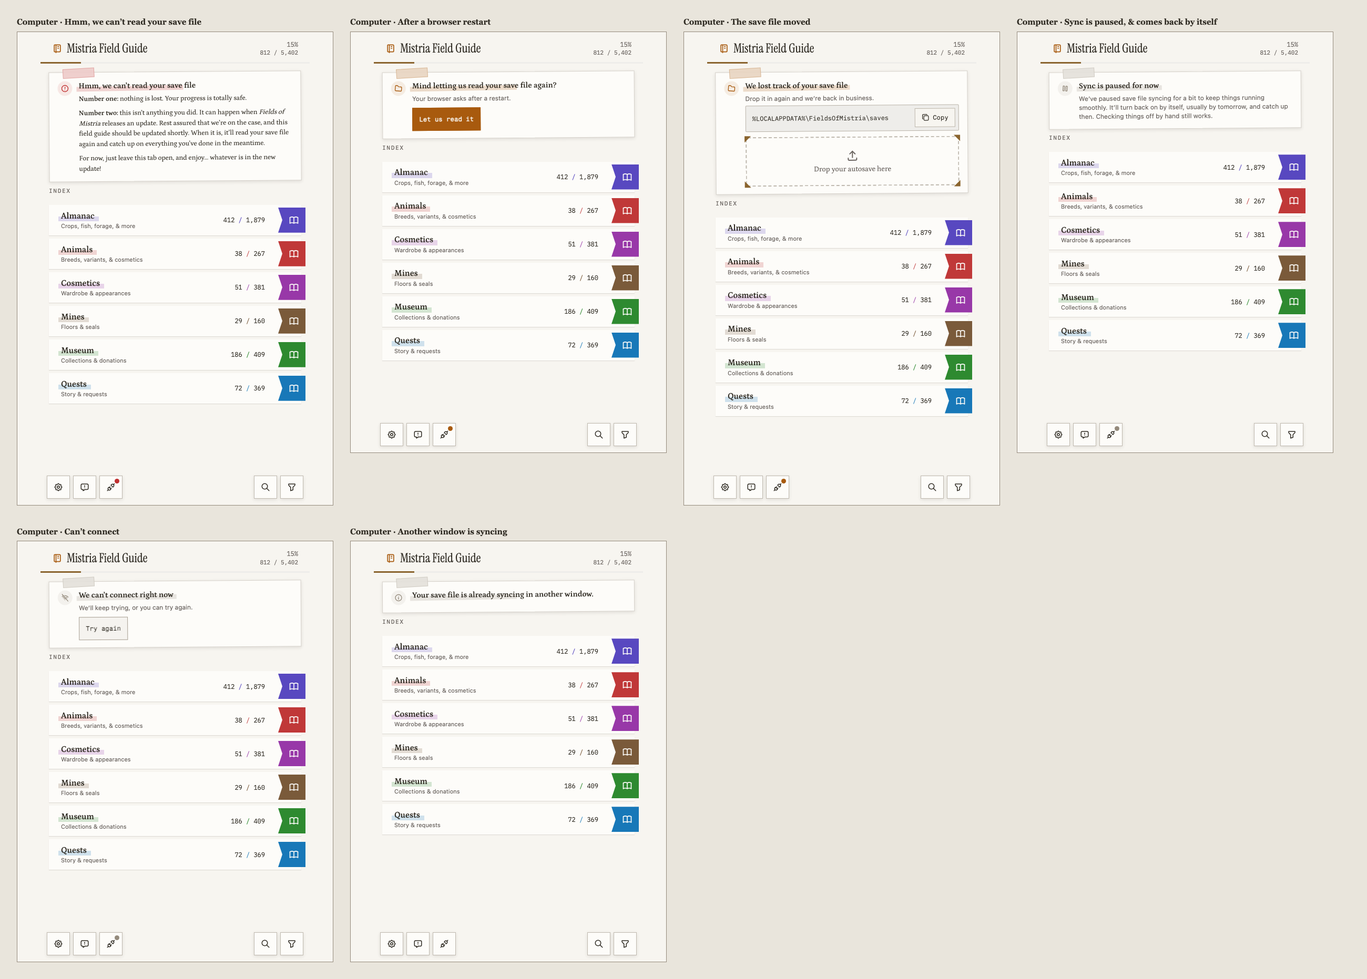
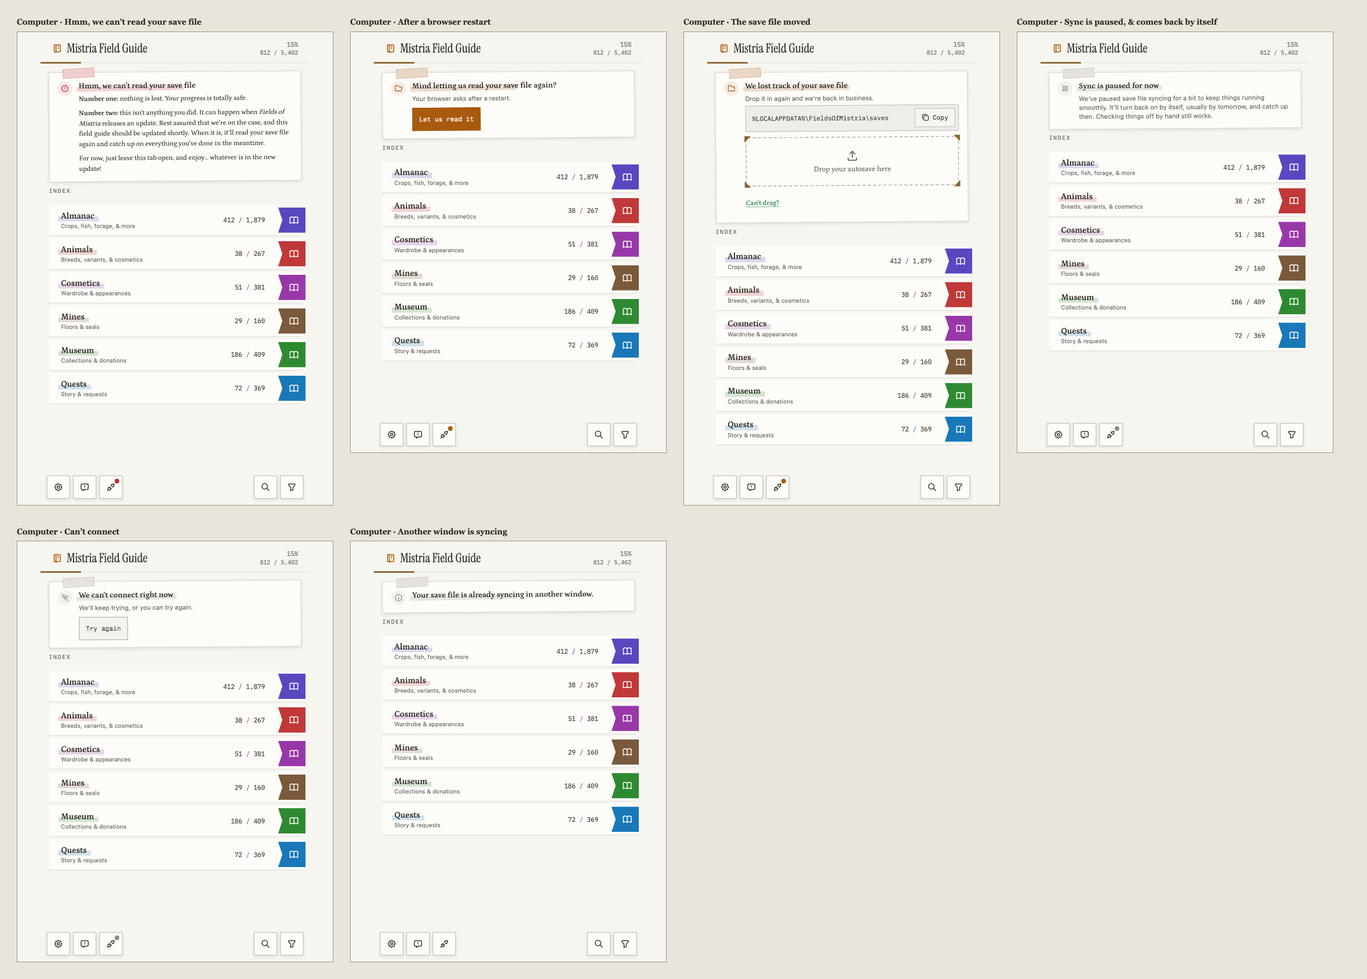
Address design review round two on sync setup
Resolve the ten round-two findings on PR #275 with label changes, reused
components, & one upload rule, and republish the canvas & sheets.

Decisions:
- Once a code exists, setup finishes with "Go to my field guide", since the
  computer can't tell when a phone scans; "No thanks" is only for a covered
  code.
- The stopped-sharing notice is neutral and offers "Stop syncing", since a
  retired code may have no replacement.
- Where the save file isn't watched, Data's sync card holds the ongoing drop
  box, staying in the lane & skipping the farm question.
- Only the drop box is ever disabled; halves are marked by a rule, not
  dimmed.
- Data's reset in a syncing lane stays in the lane & the save file refills
  it (maintainer's choice).
- The courier re-uploads when the mailbox is empty, whatever the hash.
- "I'll use the app" is the iPhone question's primary choice.

Changed region(s): [[0.6542, 0.2179, 0.7165, 0.467], [0.5296, 0.1868, 0.5919, 0.467]]

diff --git a/docs/sync-setup.md b/docs/sync-setup.md
@@ -129,12 +129,15 @@ at the bottom.
 
 1. **Find your save file.** The step admits it’s the weirdest part & promises smooth sailing after.
    It has two halves, copying the folder & dragging the file in, both always visible but only one
-   active at a time: the second is dimmed until the folder is copied, & the first dims once it is,
-   so the next step is always obvious at a glance.
+   active at a time, marked by an accent rule beside it; the other half keeps a hairline rule.
+   Nothing is dimmed or disabled except the drop box itself before the copy, so help, the platform
+   switch, & the instructions stay readable & usable, & the next step is still obvious at a glance.
    - **Copy the folder.** The path (Windows by default; “On Linux, Steam Deck, or a Mac?” shows the
-     others) with a Copy button. The drop box below looks inactive until the path is copied, by the
-     button or by a manual copy (a `copy` event whose selection is inside the path). The gate is
-     only visual: a save file dropped anyway still works, since it proves the player found it.
+     others) with a Copy button. The drop box below looks inactive until the path is copied (a
+     hairline border & muted icon, its label still at full contrast, & `aria-disabled` on the box
+     alone), by the button or by a manual copy (a `copy` event whose selection is inside the path).
+     The gate is only visual: a save file dropped anyway still works, since it proves the player
+     found it.
    - **Open it.** “Now open File Explorer and paste that into the address bar at the top.” It should
      show files like `game-[numbers]-autosave.sav`.
    - **Drag in the autosave.** Drag only where the save file is watched, since Windows refuses the
@@ -153,20 +156,29 @@ at the bottom.
    own variants, never filler text. “Yep!” applies the save file here.
 3. **Wanna track this on your phone?** The default next step. The code area holds everything about
    the code: the covered code with “Show code”, the stream note, & “Copy link” for a computer with
-   no camera. “No thanks, I’ll track here” sits in the step’s footer & finishes setup. Nothing is
+   no camera. The step’s footer holds the way on: “No thanks, I’ll track here” while the code is
+   covered, & once a code exists, `sync_done_home` (primary) with `sync_done_watched` beside it,
+   since the computer can’t tell when a phone scans. Either way setup finishes there. Nothing is
    shared until the first “Show code” or “Copy link”, which creates the code & reveals it only once
    that works; meanwhile the code area itself says `sync_making_code`, so the card doesn’t change
    height. If sync is paused, the code area says so & the footer’s only button becomes
    `sync_phone_later`, since setting up later is all the player can do. “No thanks” & a wrong file
    create nothing.
 
-- **Success says to keep the tab open:** “While this tab’s open, we’ll sync your save file every
+- **Finishing says to keep the tab open:** “While this tab’s open, we’ll sync your save file every
   time you sleep.” A browser that can’t watch files says to drop it in again after playing instead.
-  Its one button, `sync_done_home`, goes to the field guide, so there’s always a clear next step.
+  After “No thanks”, the done screen says so, with step iii folded to `sync_share_skipped`; its one
+  button, `sync_done_home`, goes to the field guide, so there’s always a clear next step.
 - **The Chrome tip.** In a browser that can’t watch a file & isn’t Chrome or Edge, the sync page
   opens with a dismissible tag dialog, “Let Chrome do this for you”, with “Copy this page’s link” &
-  `sync_tip_chrome_dismiss`; dismissing it leaves the drop-it-in-again steps.
+  `sync_tip_chrome_dismiss`; dismissing it leaves the normal setup steps, help included. The shorter
+  drop-it-in-again copy (`sync_find_open_redrop`, `sync_done_redrop`) appears only after the first
+  save file is read.
 - **Showing the code again** is one tap from Data or the status button.
+- **Dropping it in again.** Where the save file isn’t watched (another browser, or a copy chosen
+  through “Can’t drag?”), Data’s sync card holds the drop box for each new save file, with “Can’t
+  drag?” too, & the status button’s panel links there (`sync_redrop_label`). A drop stays in the
+  lane & skips the farm question unless the farm changed, which switches with a backup as usual.
 
 ### Save folders
 
@@ -197,7 +209,8 @@ watched, but it’s a handy way to grab a save file for development.
 
 - **iPhone & iPad browsers** get one question first, as a tag dialog: sync here, or in the home
   screen app, since Safari can clear a site’s data after a week away & the app keeps it. “I’ll use
-  the app” explains Share › “Add to Home Screen”, then opening the app & scanning there.
+  the app” is the primary button, since the dialog argues for it, & explains Share › “Add to Home
+  Screen”, then opening the app, tapping “Sync from my farm automagically”, & scanning there.
 - **A device already syncing** from another code asks `sync_switch_title`, offering “Make a backup”
   like the other dialogs, since a different farm replaces the one farm-switch backup; the next save
   file applies with the usual rules.
@@ -212,18 +225,18 @@ file comes from, when the last one came, & its in-game date (`sync_panel_*`), wi
 the gaming computer & a reminder to keep the tab open there. It speaks up with a dot & a short slip
 only when something is late or wrong. Its accessible name is “Save file sync: {status}”.
 
-| Stage            | The gaming computer                             | Another device                                                    |
-| ---------------- | ----------------------------------------------- | ----------------------------------------------------------------- |
-| Playing          | Syncs each time you sleep, while the tab’s open | Updates a moment later                                            |
-| Away for a while | Nothing                                         | A slip after an unusually long gap                                |
-| Browser restart  | Asks to read the save file again (one click)    | Nothing                                                           |
-| Game update      | Can’t read the save file: the notice below      | If it gets a save it can’t read either, the short notice below    |
-| App update       | Reloads itself at a safe moment                 | Same; `sync_update_computer` or `sync_update_here`                |
-| New farm         | Drop the new save file in                       | Switches to the new farm & backs up the old one                   |
-| New phone        | Show the code again                             | The new phone scans it; the old one keeps syncing until it stops  |
-| Non-Chrome       | Drop the save file in again after each session  | Updates whenever it’s dropped in                                  |
-| New code         | “Make a new code” in Data                       | “Your computer stopped sharing this save file”; scan the new code |
-| Paused           | `sync_paused_*`, hairline; lifts by itself      | Nothing new arrives; the gap slip if it lasts                     |
+| Stage            | The gaming computer                                                 | Another device                                                       |
+| ---------------- | ------------------------------------------------------------------- | -------------------------------------------------------------------- |
+| Playing          | Syncs each time you sleep, while the tab’s open                     | Updates a moment later                                               |
+| Away for a while | Nothing                                                             | A slip after an unusually long gap                                   |
+| Browser restart  | Asks to read the save file again (one click)                        | Nothing                                                              |
+| Game update      | Can’t read the save file: the notice below                          | If it gets a save it can’t read either, the short notice below       |
+| App update       | Reloads itself at a safe moment                                     | Same; `sync_update_computer` or `sync_update_here`                   |
+| New farm         | Drop the new save file in                                           | Switches to the new farm & backs up the old one                      |
+| New phone        | Show the code again                                                 | The new phone scans it; the old one keeps syncing until it stops     |
+| Non-Chrome       | Drop the save file in again after each session, in Data’s sync card | Updates whenever it’s dropped in                                     |
+| New code         | “Make a new code” in Data                                           | `sync_retired_*`: scan the new code if there is one, or stop syncing |
+| Paused           | `sync_paused_*`, hairline; lifts by itself                          | Nothing new arrives; the gap slip if it lasts                        |
 
 Check-offs made by hand on a phone stay on that phone, so a new phone starts with only what’s in the
 save file. A player who wants them moves them with backup & restore, which stays in the lane.
@@ -235,13 +248,14 @@ hand, keeping all its progress. Each of the card’s actions carries a line sayi
 (`sync_show_code_sub`, `sync_new_code_sub`, `sync_stop_sub`, `sync_scan_other_sub`), so “Make a new
 code” explains itself before anyone opens its dialog.
 
-- **On the gaming computer,** leaving the lane by “Stop syncing” (or Data’s reset, which stops
-  syncing too) also retires the code once the leaving write lands, so other devices say the computer
-  stopped sharing & keep what they have until they stop too. A retire that can’t reach the relay
-  keeps retrying.
+- **On the gaming computer,** leaving the lane by “Stop syncing” also retires the code once the
+  leaving write lands, so other devices say the computer stopped sharing & keep what they have until
+  they stop too. A retire that can’t reach the relay keeps retrying.
 - **Stopping removes only the sync state:** the receipt, the lane, & the key. **Starting fresh**
   erases progress & history too, but keeps the farm-switch backup, since no export carries it.
-  **Data’s reset** in a syncing lane erases progress & stops syncing, back to tracking by hand.
+  **Data’s reset** in a syncing lane erases progress & history but stays in the lane: the save file
+  fills it back in, at once on the computer & with the next save file elsewhere. The reset dialog
+  adds `sync_reset_note` in a syncing lane.
 - **“Make a new code”** stays in the lane, for when the old one ended up on stream. It makes & shows
   the new code first, then retires the old one; if it can’t make one, the old code keeps working
   (`sync_new_code_failed`).
@@ -254,7 +268,8 @@ code” explains itself before anyone opens its dialog.
   nothing is lost, it isn’t your fault, we’re on it, & the next read applies everything since, so
   keep the tab open. Another device shows the short version only when it gets a save file it can’t
   read either; otherwise it just sees no new saves.
-- **The save file moved or access lapsed:** an amber field note with the drop box & folder again.
+- **The save file moved or access lapsed:** an amber field note with the folder, the drop box, &
+  “Can’t drag?”, the same file input as setup.
 - **Sync can’t be reached:** `sync_unreachable_*` with “Try again”, on either side. Uploads retry by
   themselves.
 - **Sync is paused** (the kill switch): a hairline note on the gaming computer saying it turns back
@@ -362,6 +377,7 @@ parentheses after a button is its subtitle. Line breaks in a body are paragraphs
 | `sync_find_linux_hint`     | Not there? Look in your Steam library’s steamapps/compatdata/2142790 folder.                                                                                                                |
 | `sync_find_open`           | Now open File Explorer and paste that into the address bar at the top. It should take you to a folder with files like `game-[numbers]-autosave.sav`. Drag that autosave file into this box: |
 | `sync_find_open_redrop`    | Open it in File Explorer and drag your newest autosave in.                                                                                                                                  |
+| `sync_redrop_label`        | Drop in your latest save file                                                                                                                                                               |
 | `sync_find_drop`           | Drop your autosave here                                                                                                                                                                     |
 | `sync_find_drop_locked`    | Copy the folder first, and this box will wake up.                                                                                                                                           |
 | `sync_find_cant_drag`      | Can’t drag?                                                                                                                                                                                 |
@@ -388,7 +404,7 @@ parentheses after a button is its subtitle. Line breaks in a body are paragraphs
 | `sync_done_watched`        | While this tab’s open, we’ll sync your save file every time you sleep. So leave it open while you play!                                                                                     |
 | `sync_done_redrop`         | Whenever you’re done playing, drop your save file in again and we’ll sync it.                                                                                                               |
 | `sync_done_home`           | Go to my field guide                                                                                                                                                                        |
-| `sync_done_code_summary`   | Your code’s ready any time in Data                                                                                                                                                          |
+| `sync_share_skipped`       | Skipped. Show a code any time from Data.                                                                                                                                                    |
 | `sync_tip_chrome`          | Let Chrome do this for you                                                                                                                                                                  |
 | `sync_tip_chrome_body`     | In Chrome or Edge, we can sync your save file every time you sleep, no dropping it in again.                                                                                                |
 | `sync_tip_chrome_after`    | Copy this page’s link, then paste it into Chrome or Edge.                                                                                                                                   |
@@ -415,7 +431,7 @@ parentheses after a button is its subtitle. Line breaks in a body are paragraphs
 | `sync_ios_body`         | Safari can clear a site’s data if you don’t visit for a week. The home screen app hangs on to it.                                                                                  |
 | `sync_ios_here`         | Sync in {browser}                                                                                                                                                                  |
 | `sync_ios_app`          | I’ll use the app                                                                                                                                                                   |
-| `sync_ios_app_steps`    | Tap Share, then “Add to Home Screen”. Open the tracker from your home screen and tap “Scan the code” there.                                                                        |
+| `sync_ios_app_steps`    | Tap Share, then “Add to Home Screen”. Open the tracker from your home screen, tap “Sync from my farm automagically”, and scan the code there.                                      |
 | `sync_switch_title`     | Sync this save file instead?                                                                                                                                                       |
 | `sync_switch_body`      | This device will start getting a different save file. If it’s a different farm, we’ll back up the current one, but only one backup fits, so you might want to make your own first. |
 | `sync_switch_backup`    | Make a backup                                                                                                                                                                      |
@@ -443,6 +459,7 @@ parentheses after a button is its subtitle. Line breaks in a body are paragraphs
 | `sync_stop_body_computer` | Your progress stays right here, and you’ll check things off by hand from now on. Your other devices will stop getting your save file. If you sync your save file again later, it’ll start fresh. |
 | `sync_stop_confirm`       | Stop syncing                                                                                                                                                                                     |
 | `sync_stop_cancel`        | Cancel                                                                                                                                                                                           |
+| `sync_reset_note`         | Your save file will fill most of it back in, so you’ll stay synced.                                                                                                                              |
 | `sync_new_code`           | Make a new code                                                                                                                                                                                  |
 | `sync_show_code_sub`      | Add your phone or another device.                                                                                                                                                                |
 | `sync_new_code_sub`       | Stops the old code, in case it ended up on stream or somewhere you didn’t mean.                                                                                                                  |
@@ -453,8 +470,9 @@ parentheses after a button is its subtitle. Line breaks in a body are paragraphs
 | `sync_new_code_cancel`    | Never mind                                                                                                                                                                                       |
 | `sync_new_code_failed`    | We couldn’t make a new code right now, so your old one still works. Try again in a bit.                                                                                                          |
 | `sync_retired_title`      | Your computer stopped sharing this save file                                                                                                                                                     |
-| `sync_retired_body`       | Scan its new code to keep your save file syncing.                                                                                                                                                |
+| `sync_retired_body`       | If it made a new code, scan it here. Or stop syncing and keep tracking by hand.                                                                                                                  |
 | `sync_retired_action`     | Scan the code                                                                                                                                                                                    |
+| `sync_retired_stop`       | Stop syncing                                                                                                                                                                                     |
 | `sync_link_expired`       | It’s been a while! We made a new code for your save file. Scan it on your other devices to keep your save file syncing.                                                                          |
 | `sync_reallow_title`      | Mind letting us read your save file again?                                                                                                                                                       |
 | `sync_reallow_body`       | Your browser asks after a restart.                                                                                                                                                               |
@@ -521,3 +539,6 @@ On other devices:
 - After the first mockup pass: subtitles in sentence case; one active half at a time in “Find your
   save file”; the code area holds the code’s whole lifecycle; the kill switch lifts by itself & says
   so; Data’s actions explain themselves (maintainer).
+- After review round two: once a code exists, setup finishes with “Go to my field guide”; the
+  retired-code notice is neutral & offers “Stop syncing”; Data’s sync card holds the ongoing drop
+  box; only the drop box is ever disabled; Data’s reset stays in the lane (maintainer).

diff --git a/docs/sync.md b/docs/sync.md
@@ -90,9 +90,10 @@ Built in #134. Planned location (not yet created): src/lib/sync/courier.ts.
   tracker does with it: a question waiting behind the fullscreen game, a quarantined or newer-data
   store, or an apply that failed never holds an upload back. A save it can’t prune uploads nothing &
   shows the PC’s error. It also reads the current save when it starts & when it shows the code, &
-  uploads it if its hash differs from the last upload, so an expired envelope fills again & a
-  tracker update after a game update catches up without waiting for the game to save. Nothing waits
-  for a follower, so a device that follows later gets the latest save straight away.
+  uploads it if its hash differs from the last upload or the mailbox answers “empty”, so an expired
+  envelope fills again even when the save hasn’t changed, & a tracker update after a game update
+  catches up without waiting for the game to save. Nothing waits for a follower, so a device that
+  follows later gets the latest save straight away.
 - **Applying here.** The PC’s own tracker applies each save the courier reads, through the same
   receiver path as a follower (see [Followers](#followers)) but without the relay, skipping a save
   whose hash matches its receipt. Check-offs on the PC stay on the PC, like any device’s.
@@ -196,11 +197,13 @@ Built in #133. Planned location (not yet created): src/lib/sync/follow.ts. The U
   only in the page, so a setup that fails, finds no save, or is abandoned leaves nothing behind. The
   computer lane is recorded at “Yep!”, in the write that applies its first save. Leaving the
   computer lane retires its code only after that leaving write lands, never at a confirmation.
-- **The erase & the stop.** Joining a syncing lane & Data’s reset in a syncing lane write fresh
-  progress & history & remove the receipt, the lane, & the key. “Stop syncing” removes only the
-  receipt, the lane, & the key, keeping progress & history, which are then tracked by hand. Both
-  keep `farmSwitchBackup`, which no export carries, & any pending retire. Restoring a backup & a new
-  farm stay inside a lane. See [sync-setup.md](sync-setup.md#lanes).
+- **The erase, the reset, & the stop.** Joining a syncing lane writes fresh progress & history &
+  removes any old receipt, lane, & key. Data’s reset in a syncing lane writes fresh progress &
+  history & removes the receipt but keeps the lane & key, so the latest save file applies again (on
+  the computer at once, from its current save). “Stop syncing” removes only the receipt, the lane, &
+  the key, keeping progress & history, which are then tracked by hand. Both keep `farmSwitchBackup`,
+  which no export carries, & any pending retire. Restoring a backup & a new farm stay inside a lane.
+  See [sync-setup.md](sync-setup.md#lanes).
 - **Opening a link.** A device opens the link, scans its QR code with the tracker’s own scanner (the
   one the transfer card uses), or pastes it. The page strips the fragment from its address bar,
   holds the key in the page (see Lanes), & fetches the latest envelope. An “empty” mailbox shows
